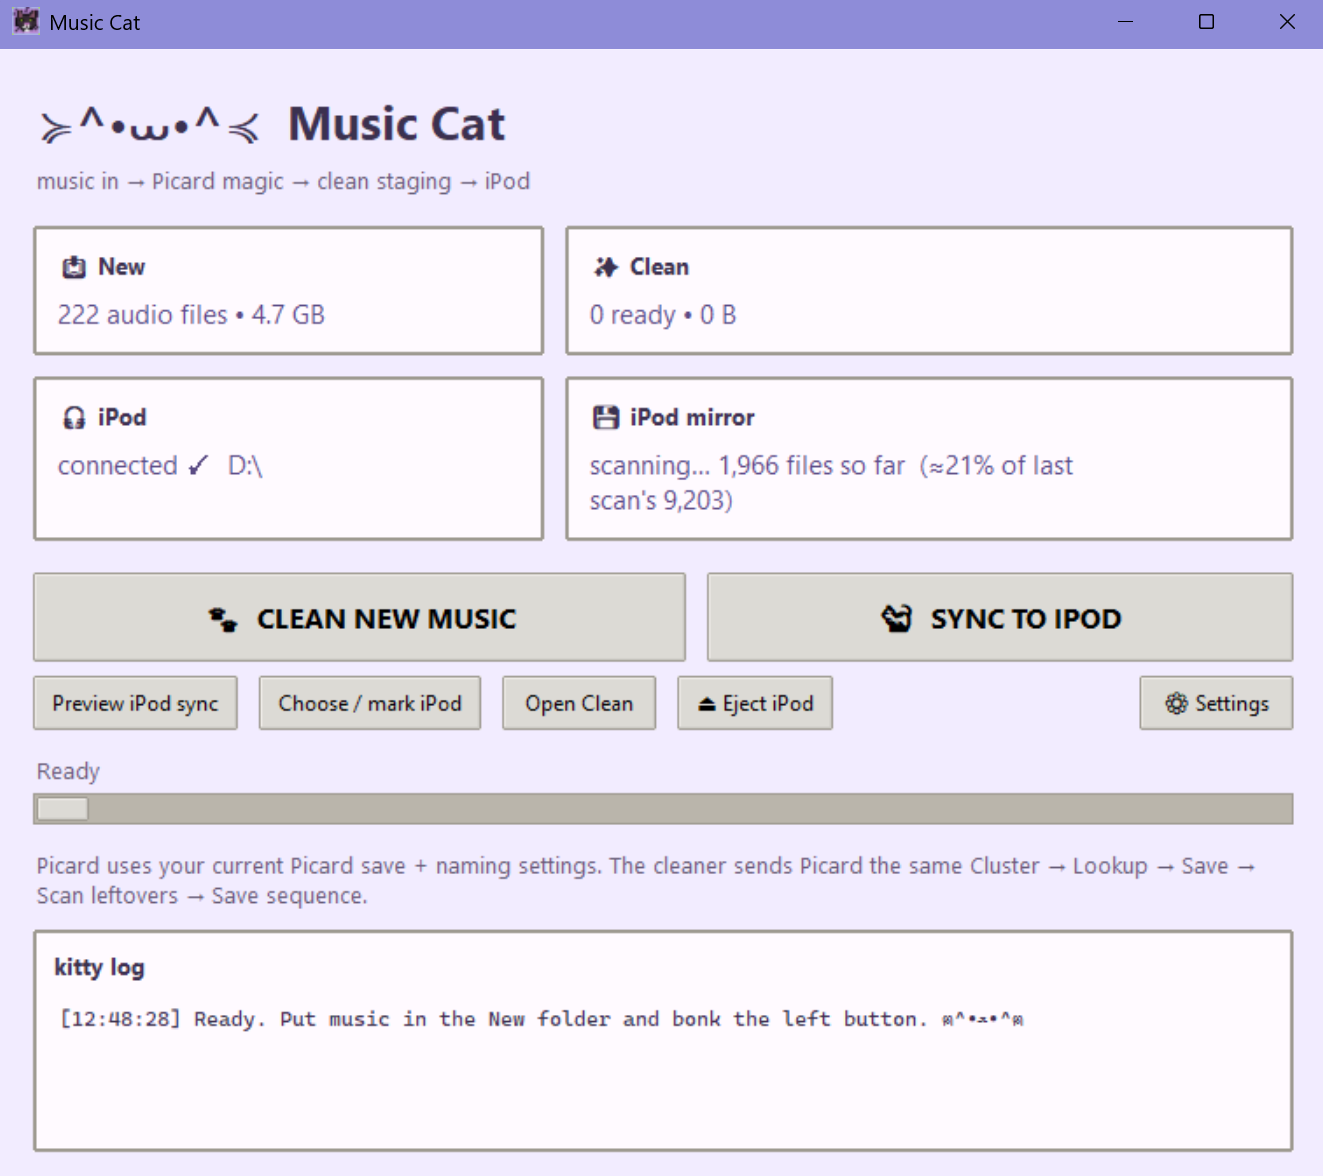
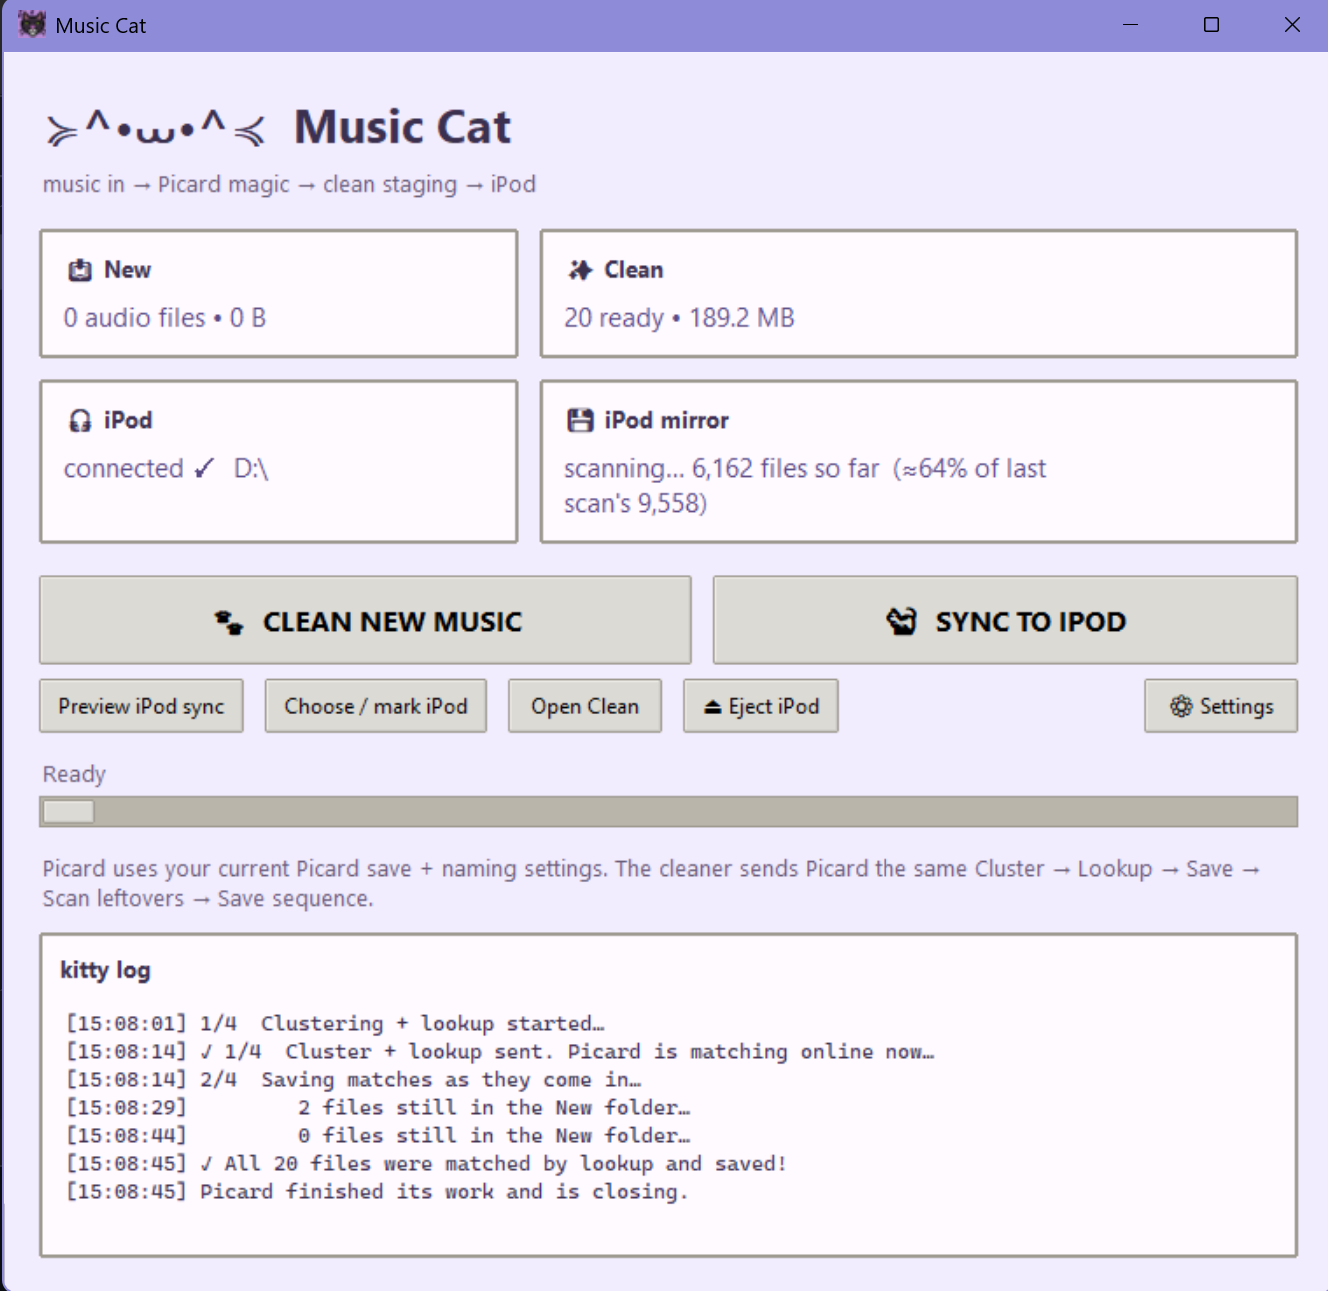
update readme screenshots

Changed region(s): [[0.0, 0.0612, 0.9917, 1.0], [0.0, 0.0, 0.124, 0.0612]]

diff --git a/README.md b/README.md
@@ -6,6 +6,10 @@ The window title becomes "*YourName* Music Cat" once you type your name in setup
 
 ![Music Cat main window](screenshots/main-window.png)
 
+When everything finishes you get a little toast:
+
+![All clean toast](screenshots/all-clean-toast.png)
+
 ## What it does
 
 1. Drop new music files into your **New** folder.
